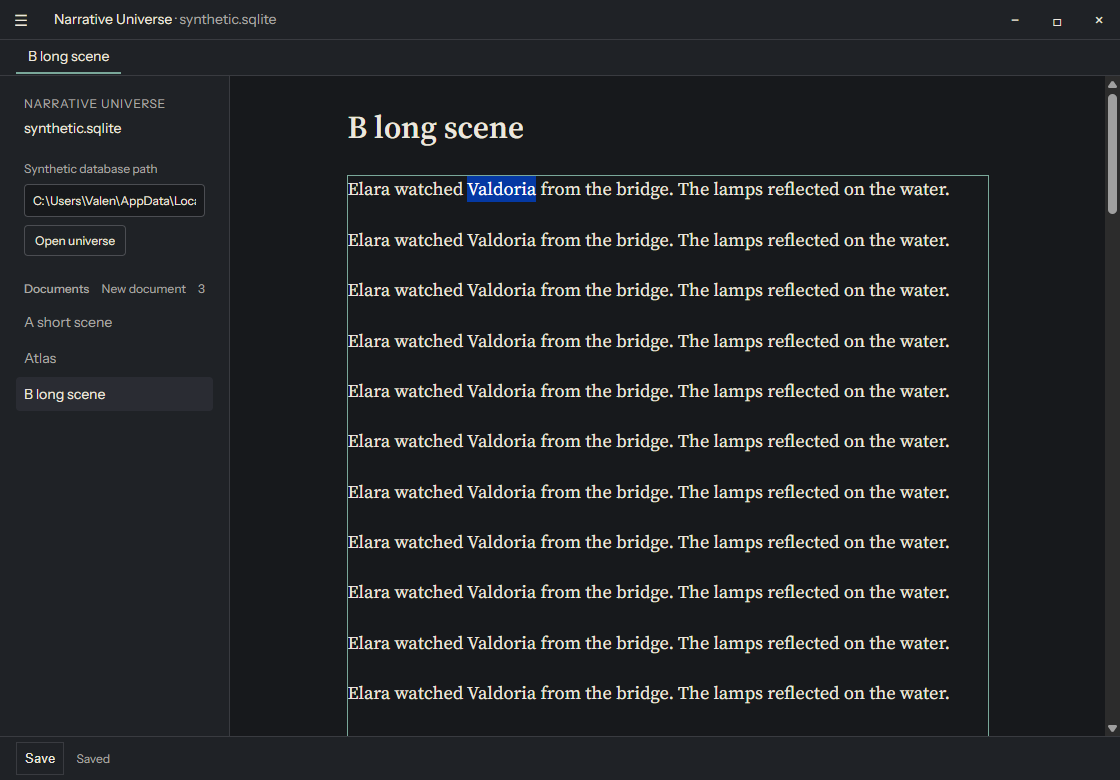
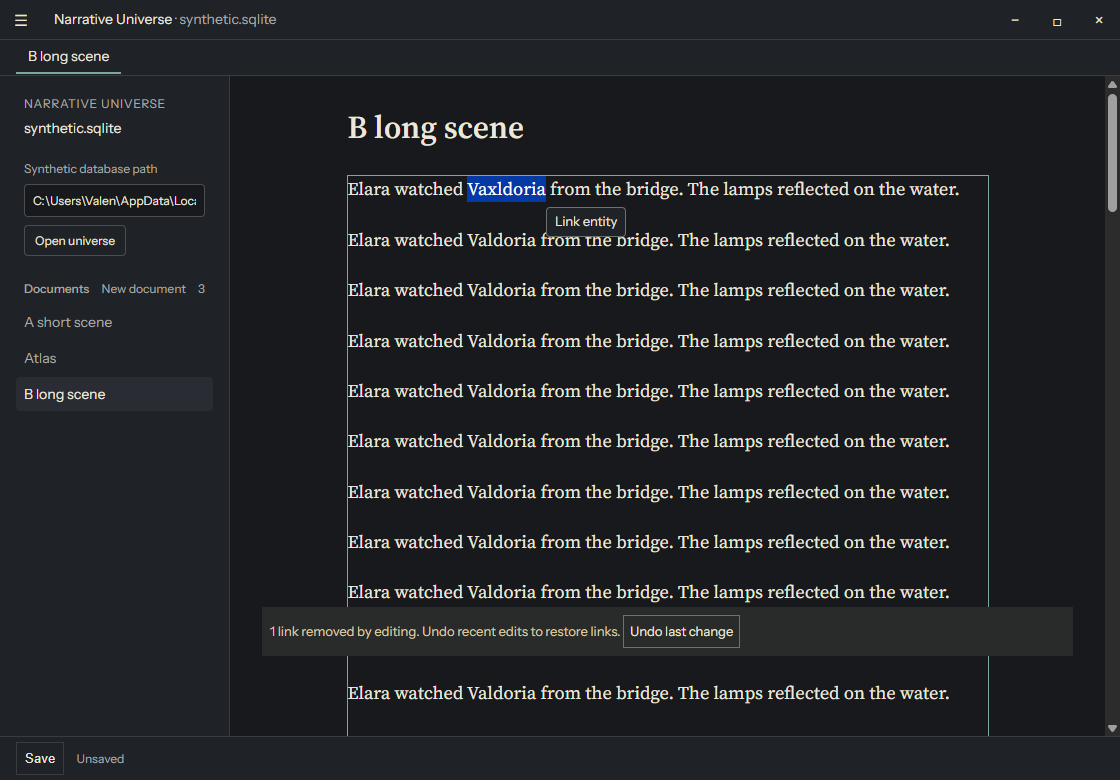
fix(ui): clarify link-drop undo and verify long-scene notice

Changed region(s): [[0.4375, 0.2154, 0.8438, 0.3077], [0.25, 0.8, 0.8438, 0.8308], [0.0625, 0.9538, 0.125, 0.9846]]

diff --git a/ui/test/desktop.test.ts b/ui/test/desktop.test.ts
@@ -417,7 +417,7 @@ test('a mention mismatch refusal keeps the draft and is never reported as saved'
   assert.equal(ui.view().state.doc.toString(),'An original');
   ui.close();
 });
-import { undo, redo } from "@codemirror/commands";
+import { undo, redo, isolateHistory } from "@codemirror/commands";
 import { mentionField } from "../src/mention-history.ts";
 import { entityCaption } from "../desktop/connect.ts";
 const entities = [
@@ -473,6 +473,22 @@ test('persistent drop notice and Undo/Redo preserve identity; deliberate Unlink 
   assert.match(ui.doc.querySelector('.entity-picker').textContent,/Valdoria.*Place.*Unsaved link/);
   [...ui.doc.querySelectorAll('.entity-picker button')].find(b=>b.textContent==='Unlink').click();assert.equal(view.state.field(mentionField).length,0);assert.equal(ui.doc.querySelector('.link-drop-notice').hidden,true);
   undo(view);assert.deepEqual(view.state.field(mentionField),[original]);redo(view);assert.equal(view.state.field(mentionField).length,0);ui.close();
+});
+
+test('drop notice undoes the last change and persists until each link is restored', async()=>{
+  const mentions=[{id:'first',entityId:'place-0001',startUtf16:0,endUtf16:8},{id:'second',entityId:'house-0002',startUtf16:12,endUtf16:20}];
+  const ui=connectSetup(undefined,{...page,body:'Valdoria at Valdoria.',mentions});ui.open('a');await tick();const view=ui.view();
+  const isolated=()=>isolateHistory.of('full');
+  view.dispatch({changes:{from:2,insert:'x'},annotations:isolated()});
+  view.dispatch({changes:{from:15,insert:'x'},annotations:isolated()});
+  view.dispatch({changes:{from:view.state.doc.length,insert:' Later.'},annotations:isolated()});
+  const notice=ui.doc.querySelector('.link-drop-notice');
+  assert.match(notice.textContent,/2 links removed.*Undo recent edits/);
+  assert.equal(notice.querySelector('button').textContent,'Undo last change');
+  notice.querySelector('button').click();
+  assert.equal(view.state.doc.toString().endsWith('Later.'),false);assert.equal(view.state.field(mentionField).length,0);assert.equal(notice.hidden,false);
+  notice.querySelector('button').click();assert.equal(view.state.field(mentionField)[0].id,'second');assert.match(notice.textContent,/1 link removed/);
+  notice.querySelector('button').click();assert.deepEqual(view.state.field(mentionField),mentions);assert.equal(notice.hidden,true);ui.close();
 });
 
 test('link-only close guard keeps draft; Save confirms full aggregate and updates decorations', async()=>{

diff --git a/ui/desktop/connect.ts b/ui/desktop/connect.ts
@@ -46,7 +46,7 @@ export function connectEditor(options: {
   }
   function position(element: HTMLElement, view: EditorView): void {
     let rect;
-    try { rect = view.coordsAtPos(view.state.selection.main.to); } catch { /* Layout is unavailable in headless tests. */ }
+    try { rect = view.coordsAtPos(view.state.selection.main.to); } catch { /* Fall back to the viewport corner if coordinates are unavailable. */ }
     const left = rect?.left ?? 0, top = rect?.bottom ?? 0;
     element.style.left = `${Math.max(8, Math.min(left, window.innerWidth - element.offsetWidth - 12))}px`;
     element.style.top = `${Math.max(8, Math.min(top + 6, window.innerHeight - element.offsetHeight - 12))}px`;
@@ -130,8 +130,8 @@ export function connectEditor(options: {
     const drops = s ? pendingDrops(s) : [];
     notice.hidden = drops.length === 0; notice.replaceChildren();
     if (drops.length) {
-      notice.append(`${drops.length} ${drops.length === 1 ? "link removed" : "links removed"} by editing. Undo restores the original identity. `);
-      const button = document.createElement("button"); button.type = "button"; button.textContent = "Undo"; button.onclick = () => { const v = options.view(); if (v) { undo(v); v.focus(); } }; notice.append(button);
+      notice.append(`${drops.length} ${drops.length === 1 ? "link removed" : "links removed"} by editing. Undo recent edits to restore links. `);
+      const button = document.createElement("button"); button.type = "button"; button.textContent = "Undo last change"; button.onclick = () => { const v = options.view(); if (v) { undo(v); v.focus(); } }; notice.append(button);
     }
   }
   const extensions: Extension = [keymap.of([{key: "Mod-k", run(view) { void open(view); return true; }}]), EditorView.decorations.of(view => {

diff --git a/docs/connect-acceptance.md b/docs/connect-acceptance.md
@@ -1,8 +1,7 @@
 # Connect acceptance handoff
 
 Issue #33, based on approved D1-D6 in #31 and merged #34 at `dceda4d`.
-Synthetic data only. Parent independent review and Valen/Ari acceptance remain
-required before merge. No push or PR was made by this implementation agent.
+Synthetic data only. Valen/Ari acceptance remains required before merge.
 
 ## Implementation
 
@@ -28,7 +27,7 @@ excludes links. The seed and schema remain unchanged.
 ## Automated evidence
 
 - PASS: `npm ci`, `npm run check`, `npm run desktop:check`, `npm test`
-  (107 tests), and `npm run desktop:frontend:build` in `ui`.
+  (108 tests after review), and `npm run desktop:frontend:build` in `ui`.
 - PASS: pinned Rust 1.96.0 `cargo test --locked --all-targets -j 1` at root
   (338 tests including the new import/reopen fixture test).
 - PASS: pinned Rust 1.96.0 `cargo test --locked -j 1` in `ui/src-tauri`
@@ -71,6 +70,8 @@ PASS in this native run:
 - Ctrl+K inspect, deliberate Unlink without an accidental-drop warning, and Save.
 - Long-scene popup leaves prose width unchanged. Escape returns editor focus
   and the captured selection.
+- A text-driven drop in the long scene leaves its notice inside the visible
+  viewport. The refreshed long-scene screenshot shows that notice.
 - `node scripts/webview2-parity.mjs` matches all 22 boundary and 37 reducer cases
   in real WebView2 with zero failures.
 
@@ -103,3 +104,20 @@ No production backup, crash recovery, mobile or cross-platform claim is made.
 
 Stop on silent link loss, identity replacement, stale text being linked, false
 Saved or content loss. Do not relax a contract to complete acceptance.
+
+## Independent review and corrections
+
+GPT 6.1 Terra High independently reviewed `03c3f99` against `dceda4d`, the
+approved decisions, and #33. Its verdict was REQUEST CHANGES for the drop
+notice's promise that one Undo would restore a link even after later edits.
+The button now says **Undo last change**, and the notice explains that restoring
+links requires undoing recent edits. A new regression drops two links in separate
+history events, makes another edit, and checks each successive Undo and exact
+restored identities. All 108 UI tests pass.
+
+The review also requested an accurate coordinate-fallback comment, now corrected,
+and identified long-scene notice visibility as untested. The coordinator reran
+the real WebView2 probe with that assertion and inspected the new screenshot.
+The reviewer found no independently demonstrated hard stop-condition violation.
+The coordinator also repeated both Rust test suites, UI checks, and frontend build.
+The reviewer did not rerun tests or perform human native acceptance.
